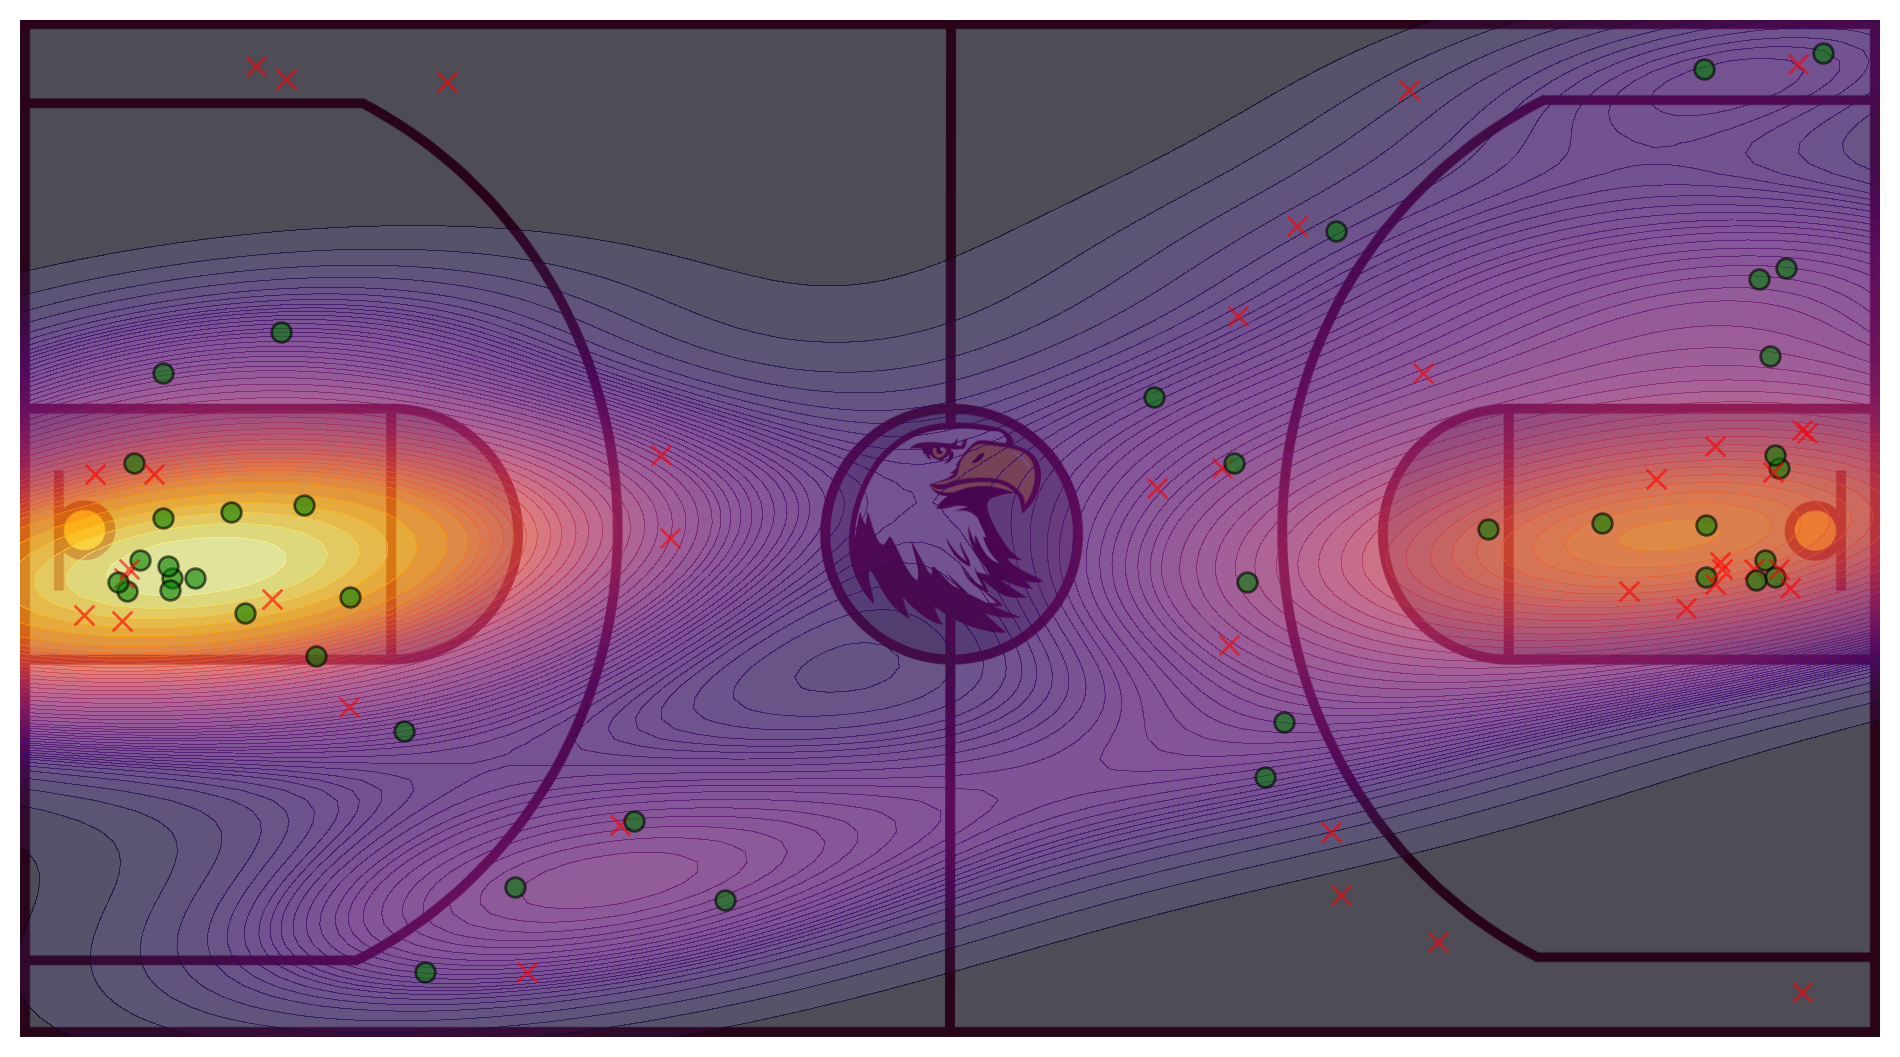
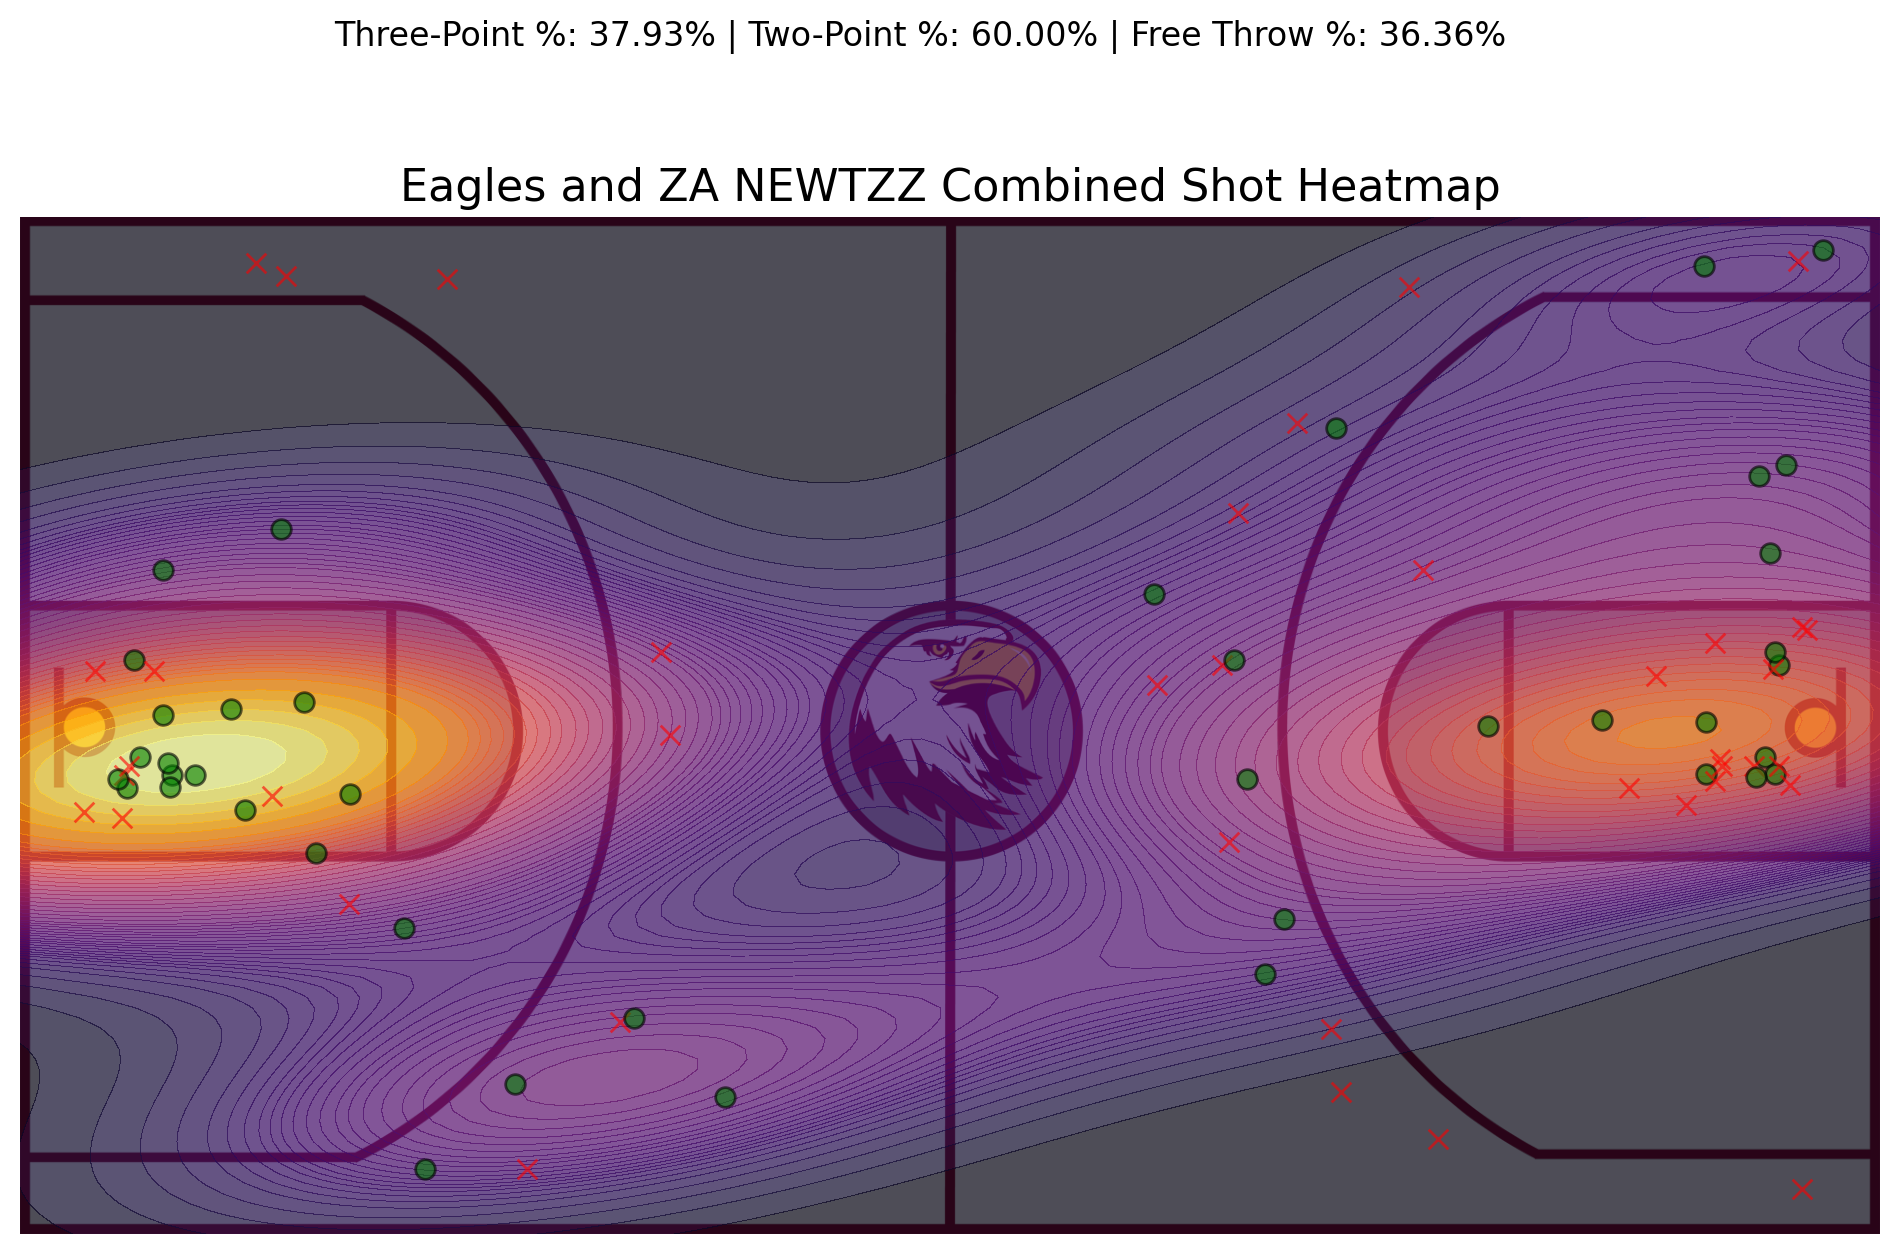
combined and separate teams, with basic shot stats

diff --git a/heatmap.py b/heatmap.py
@@ -20,12 +20,56 @@ def extract_shots(team_players):
                 shot_made.append(shot['Made'])
     return shot_positions, shot_made
 
+def extract_team_names(data):
+	team1 = data['Team1Name']
+	team2 = data['Team2Name']
+	return team1, team2
+
+# Function to calculate shot percentages
+def calculate_percentages(team_players):
+    total_shots = 0
+    made_threes = 0
+    made_twos = 0
+    made_frees = 0
+    attempted_threes = 0
+    attempted_twos = 0
+    attempted_frees = 0
+
+    for player in team_players:
+        for shot in player['Shots']:
+            total_shots += 1
+            if shot['PointValue'] == 3:
+                attempted_threes += 1
+                if shot['Made']:
+                    made_threes += 1
+            elif shot['PointValue'] == 2:
+                attempted_twos += 1
+                if shot['Made']:
+                    made_twos += 1
+            elif shot['PointValue'] == 1:
+                attempted_frees += 1
+                if shot['Made']:
+                    made_frees += 1
+
+    three_percentage = (made_threes / attempted_threes * 100) if attempted_threes else 0
+    two_percentage = (made_twos / attempted_twos * 100) if attempted_twos else 0
+    free_percentage = (made_frees / attempted_frees * 100) if attempted_frees else 0
+
+    return three_percentage, two_percentage, free_percentage
+
+# Extract team names
+team1_name, team2_name = extract_team_names(data)
+
 # Extract shots for both teams
 team1_shot_positions, team1_shot_made = extract_shots(data['Team1Players'])
 team2_shot_positions, team2_shot_made = extract_shots(data['Team2Players'])
 
+# Calculate percentages for both teams
+team1_percentages = calculate_percentages(data['Team1Players'])
+team2_percentages = calculate_percentages(data['Team2Players'])
+
 # Function to create heatmap for a given team
-def create_heatmap(shot_positions, shot_made, team_name):
+def create_heatmap(shot_positions, shot_made, team_name, team_num, percentages):
     # Load basketball court image and resize it to 1920x1050
     court_img = Image.open('court.png')
     court_img = court_img.resize((1920, 1050))
@@ -81,15 +125,23 @@ def create_heatmap(shot_positions, shot_made, team_name):
     # Remove axes
     ax.set_axis_off()
 
+    # Add title to the heatmap
+    ax.set_title(f'{team_name} Shot Heatmap', fontsize=16, color='black')
+
+    # Add text for percentages below the title
+    three_percentage, two_percentage, free_percentage = percentages
+    fig.text(0.5, 0.92, f'Three-Point %: {three_percentage:.2f}% | Two-Point %: {two_percentage:.2f}% | Free Throw %: {free_percentage:.2f}%', color='black', fontsize=12, ha='center')
+
     # Save plot to a file
-    plt.savefig(f'heatmap_{team_name}.png', bbox_inches='tight', dpi=200)
+    plt.savefig(f'heatmap_{team_num}.png', bbox_inches='tight', dpi=200)
     plt.close()
 
 # Create heatmaps for both teams
-create_heatmap(team1_shot_positions, team1_shot_made, 'Team1')
-create_heatmap(team2_shot_positions, team2_shot_made, 'Team2')
+create_heatmap(team1_shot_positions, team1_shot_made, f'{team1_name}', "team1", team1_percentages)
+create_heatmap(team2_shot_positions, team2_shot_made, f'{team2_name}', "team2", team2_percentages)
 
 # Create combined heatmap
 combined_shot_positions = team1_shot_positions + team2_shot_positions
 combined_shot_made = team1_shot_made + team2_shot_made
-create_heatmap(combined_shot_positions, combined_shot_made, 'Combined')
+combined_percentages = calculate_percentages(data['Team1Players'] + data['Team2Players'])
+create_heatmap(combined_shot_positions, combined_shot_made, f'{team1_name} and {team2_name} Combined', "Combined", combined_percentages)
